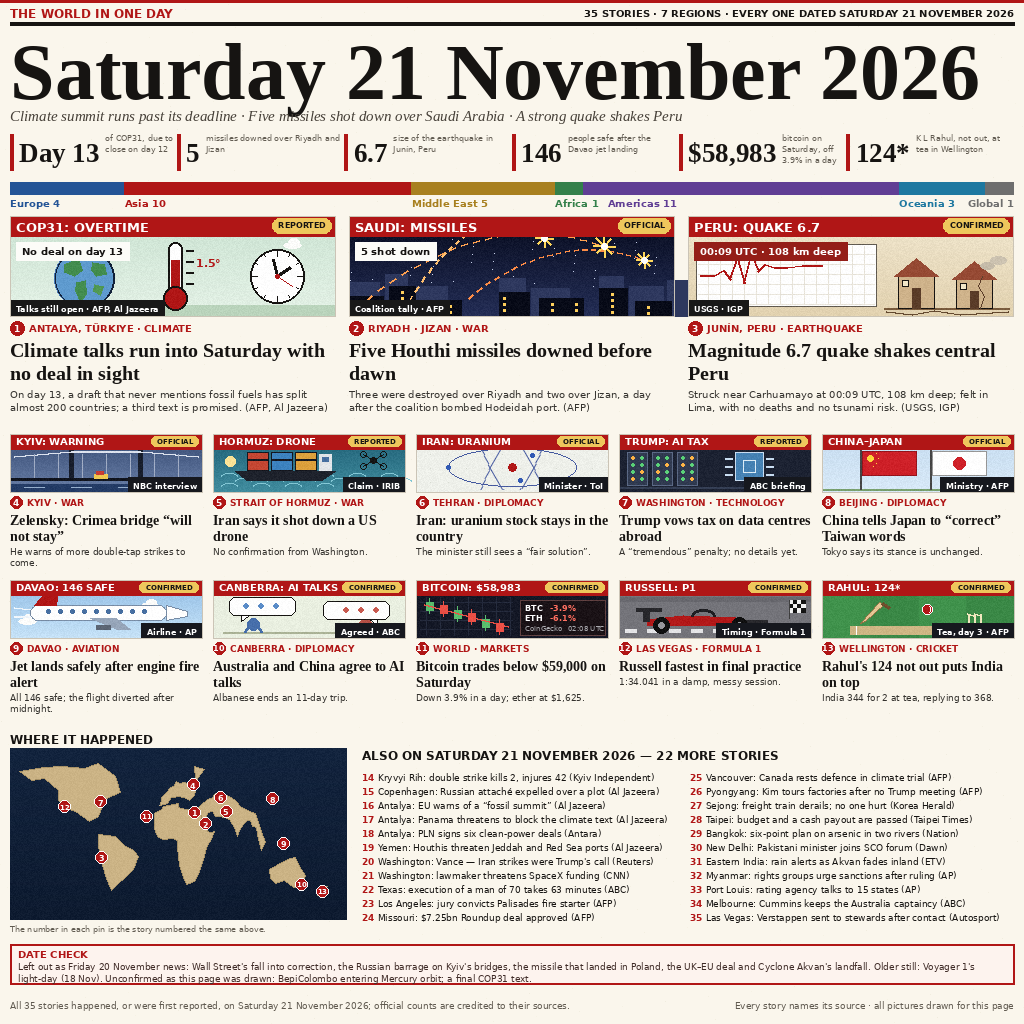
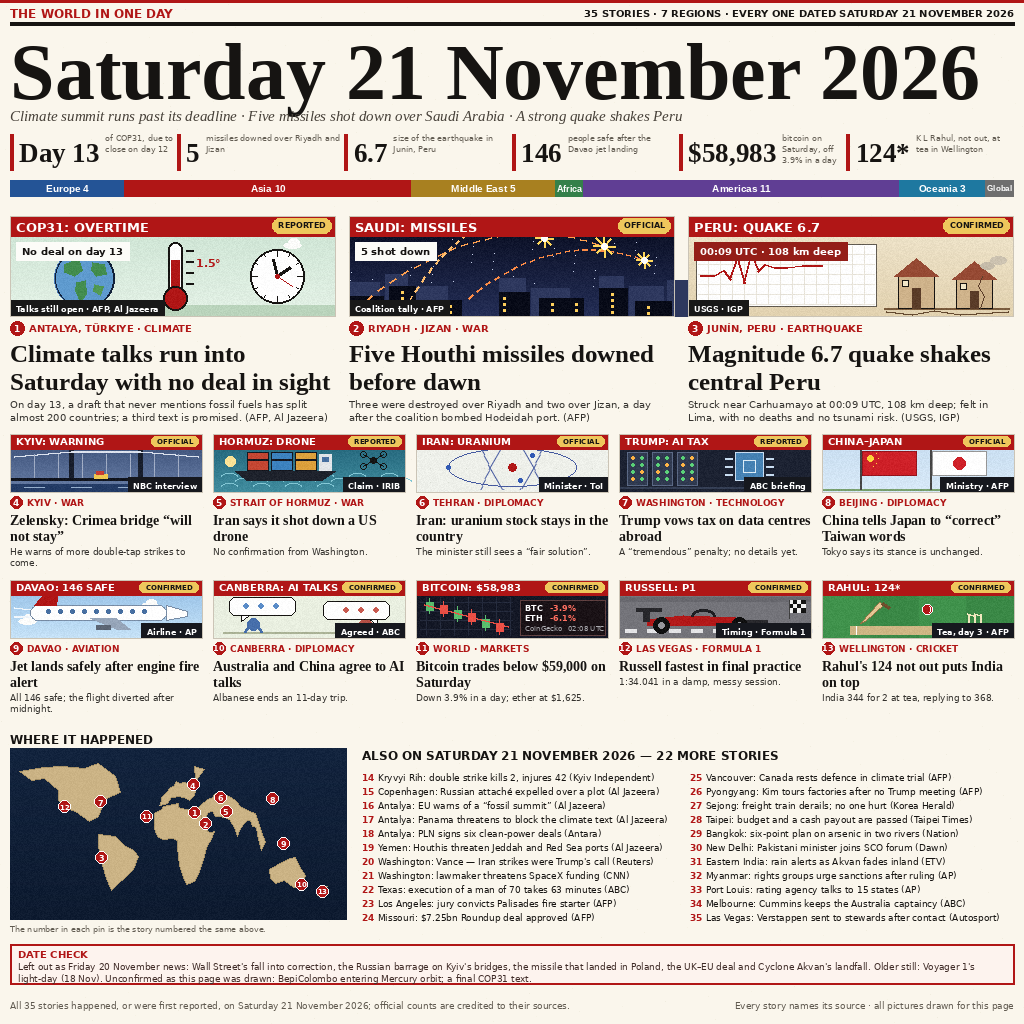
Round 7: converge typography on the top entry — thick region bar with white bold labels inside each segment (name-only fallback for the two 1-story segments), hero headlines up to serif 25/28 (three lines at a larger size would squeeze the summaries, so the room goes into size)

diff --git a/render.py b/render.py
@@ -1,9 +1,12 @@
-"""Render the front page for Saturday 21 November 2026 (round 6).
+"""Render the front page for Saturday 21 November 2026 (round 7).
 
-Round 6 keeps round 4's proven composition and restores one element
-of the top entry that round 4 dropped: a small gold verification
-stamp (CONFIRMED / OFFICIAL / REPORTED) on the banner of every one
-of the 13 story panels, graded by how each story is sourced.
+Round 7 keeps round 6's page (the round-4 composition with gold
+verification stamps on all 13 panels) and converges two typographic
+treatments on the top entry's: the region bar is now a thick strip
+whose white bold labels sit inside their segments, and the hero
+headlines are set larger (serif 25 on a 28 lead, still two lines --
+three lines at a larger size would squeeze the summaries against
+the small-panel row, so the panel's room goes into size instead).
 
 Round 4 converged the page onto the composition of the current top
 entry of this competition: red banner strips inside every scene, a
@@ -46,6 +49,7 @@ SERIF_B = "/usr/share/fonts/truetype/liberation/LiberationSerif-Bold.ttf"
 SERIF_I = "/usr/share/fonts/truetype/liberation/LiberationSerif-Italic.ttf"
 SANS = "/usr/share/fonts/truetype/dejavu/DejaVuSans.ttf"
 SANS_B = "/usr/share/fonts/truetype/dejavu/DejaVuSans-Bold.ttf"
+SANS_NB = "/usr/share/fonts/truetype/liberation/LiberationSans-Bold.ttf"
 
 
 def font(path, size):
@@ -662,10 +666,10 @@ def hero_panel(d, img, x, y, w, story, seed):
     d.rectangle([x, y, x + w, y + sh], outline=FAINT, width=1)
     kicker(d, x, y + sh + 5, num, place, field)
     hy = y + sh + 23
-    lines = wrap(d, head, font(SERIF_B, 20), w, 2)
+    lines = wrap(d, head, font(SERIF_B, 25), w, 2)
     for line in lines:
-        d.text((x, hy), line, font=font(SERIF_B, 20), fill=INK)
-        hy += 23
+        d.text((x, hy), line, font=font(SERIF_B, 25), fill=INK)
+        hy += 28
     sy = hy + 3
     for line in wrap(d, summ, font(SANS, 10), w, 3):
         d.text((x, sy), line, font=font(SANS, 10), fill=(52, 50, 46))
@@ -797,26 +801,32 @@ def render():
             d.text((tx, ty), line, font=font(SANS, 8), fill=GREY)
             ty += 11
 
-    # Region-count bar with coloured labels under each segment
-    by = 182
+    # Region-count bar: thick segments with white bold labels inside
+    # them, the top entry's treatment. A label too wide for its
+    # segment falls back to the region name alone, then to a smaller
+    # size, so every label stays inside its own segment.
+    by = 180
+    bh = 16
     total = sum(c for _, c, _ in REGIONS)
     bx = M
-    seg_x = []
     for name, cnt, col in REGIONS:
         seg = CW * cnt / total
-        d.rectangle([bx, by, bx + seg, by + 12], fill=col)
-        seg_x.append(bx)
+        d.rectangle([bx, by, bx + seg, by + bh], fill=col)
+        label, lf, ls = None, None, 10
+        for text in ("%s %d" % (name, cnt), name):
+            for size in (10, 9, 8):
+                f = font(SANS_NB, size)
+                if d.textlength(text, font=f) <= seg - 2:
+                    label, lf, ls = text, f, size
+                    break
+            if label:
+                break
+        if label is None:
+            label, lf, ls = name, font(SANS_NB, 8), 8
+        tw = d.textlength(label, font=lf)
+        d.text((bx + (seg - tw) / 2, by + bh // 2 - ls // 2 - 1), label,
+               font=lf, fill=WHITE)
         bx += seg
-    lx = M
-    for (name, cnt, col), sx0 in zip(REGIONS, seg_x):
-        label = "%s %d" % (name, cnt)
-        f = font(SANS_B, 10)
-        tw = d.textlength(label, font=f)
-        px = max(sx0, lx)
-        if px + tw > W - M:
-            px = W - M - tw
-        d.text((px, by + 15), label, font=f, fill=col)
-        lx = px + tw + 9
 
     # Three lead panels
     ly = 216
